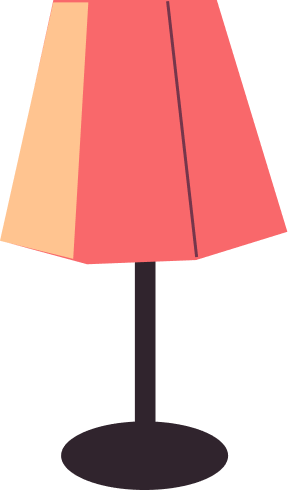
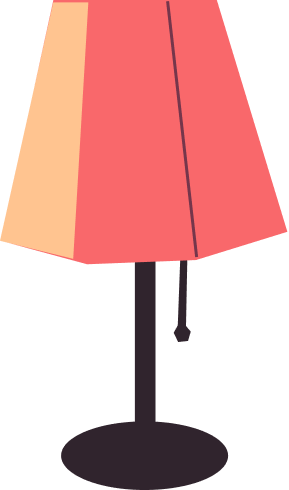
hover toegevoegd

Changed region(s): [[0.5917, 0.5204, 0.654, 0.7041]]

diff --git a/scripts/mainCopy.js b/scripts/mainCopy.js
@@ -75,20 +75,28 @@ fetchJson(apiURL).then(({data}) => {
     parentElement.classList.remove('loading')
 })
 
+document.addEventListener("keydown", function (event) {
+  if (event.key === "r") {
+    console.log("You pressed r!")
+    parentElement.classList.add('loading')
+
+    randomClassmate = Math.floor(Math.random() * 52)
+
+    fetchJson2(apiURL2).then(({ data }) => {
+        //data.custom = JSON.parse(data.custom)
+        parseCard2(data[randomClassmate], parentElement)
+
+        //arrayLength = data.length -1
+        
+        parentElement.classList.remove('loading')
+      })
+  }
+});
+
+
 //tweede persoon
 
-parentElement2.classList.add('loading')
 
-randomClassmate = Math.floor(Math.random() * 52)
-
-fetchJson2(apiURL2).then(({ data }) => {
-    //data.custom = JSON.parse(data.custom)
-    parseCard2(data[randomClassmate], parentElement2)
-
-    //arrayLength = data.length -1
-    
-    parentElement2.classList.remove('loading')
-})
 
 // ==============================
 // Boek annimatie

diff --git a/index.html b/index.html
@@ -146,13 +146,13 @@
                 </div>
             </article>
 
-            <article>
+            <!-- <article>
                 <button popovertarget="schoolPasjeAnderen">Schoolpasje anderen</button>
                 
                 <div popover id="schoolPasjeAnderen">
                     <p>hier wordt data ingeladen van de api</p>
                 </div>
-            </article>
+            </article> -->
 
             <!-- Photo's -->
             <!-- <article>

diff --git a/styles/style.css b/styles/style.css
@@ -21,6 +21,24 @@ button {
 
 }
 
+button:hover {
+  transform: rotate(5deg);
+}
+
+#lamp label:hover img {
+  /* transform: scale(1.05); */
+  content: url(/images/lampLightHover.png);
+  @container style(--theme:dark){
+        content: url(/images/lampDarkHover.png);
+    }
+}
+
+
+/* .schoolPas button img {
+    @container style(--theme:dark){
+        content: url(/images/schoolPassDark.png);
+    }
+} */
 
 /* Basis styling */
 

diff --git a/README.md b/README.md
@@ -209,6 +209,9 @@ en nieuwe manier van een functie opschrijven in javascript met switch
 - **19:50–20:05** — README bijgewerkt  
 
 20:05 pasje vormgeven
-2030 randomizer combinen met op r drukken
+2030- 2040 randomizer combinen met op r drukken
+2035-2100 -hovers
+21
+
 
 ## Weekly check-out | sprint 0
